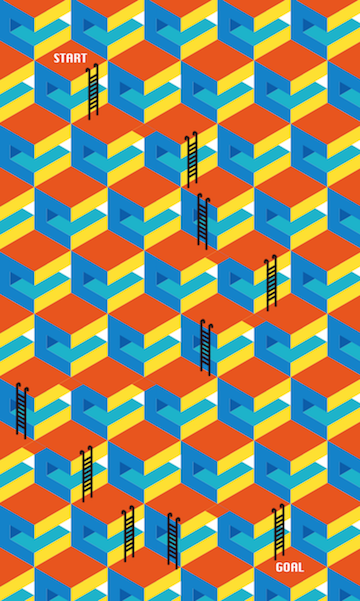
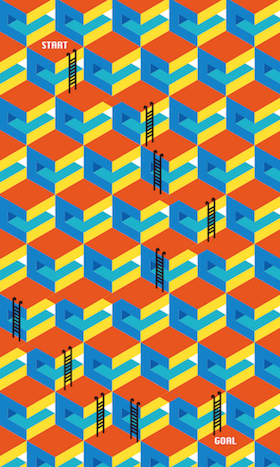
Change maze size

diff --git a/js/maze.js b/js/maze.js
@@ -18,8 +18,8 @@ function MazeGame(canvas, character, background, options) {
 		starting_position: { x: 1, y: 1 },
 		level_size: [10, 10],
 		offset: {x: 0, y: 0},
-		scaleX: 36,
-		scaleY: 63,
+		scaleX: 28,
+		scaleY: 49,
 		user_diameter: 4,
 		user_path_width: 8,
 		onStart: function(){},
@@ -188,12 +188,10 @@ function MazeGame(canvas, character, background, options) {
 		// this.generateMaze();
 		for (var y = 0; y<fixedMaze.length; y++) {
 			for (var x = 0; x<fixedMaze[0].length; x++) {
-				console.log('try', x, y, fixedMaze[y][x]);
 				if ((fixedMaze[y][x] & 1) > 0) this.getCell(x, y).left = false;
 				if ((fixedMaze[y][x] & 2) > 0) this.getCell(x, y).up = false;
 				if ((fixedMaze[y][x] & 4) > 0) this.getCell(x, y).right = false;
 				if ((fixedMaze[y][x] & 8) > 0) this.getCell(x, y).down = false;
-				console.dir(this.getCell(x, y));
 			}
 		}
 		this.end.x = 7;
@@ -259,8 +257,8 @@ function MazeGame(canvas, character, background, options) {
 	}
 	
 	function image(x, y, image) {
-		var offsetX = options.offset.x + (x-0.3) * options.scaleX;
-		var offsetY = options.offset.y + (y-1.3) * options.scaleY;
+		var offsetX = options.offset.x + (x-0.5) * options.scaleX;
+		var offsetY = options.offset.y + (y-1.7) * options.scaleY;
 		ctx.drawImage(image, offsetX, offsetY);
 	}
 	

diff --git a/index.html b/index.html
@@ -6,7 +6,7 @@
 	<link rel="stylesheet" href="css/maze.css" />
 	<script type="text/javascript" src="http://ajax.googleapis.com/ajax/libs/jquery/1/jquery.min.js"></script>
 	<script type="text/javascript" src="js/maze.js"></script>
-	<meta name="viewport" content="initial-scale=1, maximum-scale=1" />
+	<meta name="viewport" content="width=device-width, user-scalable=0, initial-scale=1, maximum-scale=1" />
 	<script>
 		var mazeGame;
 		var time, timer, startTime;
